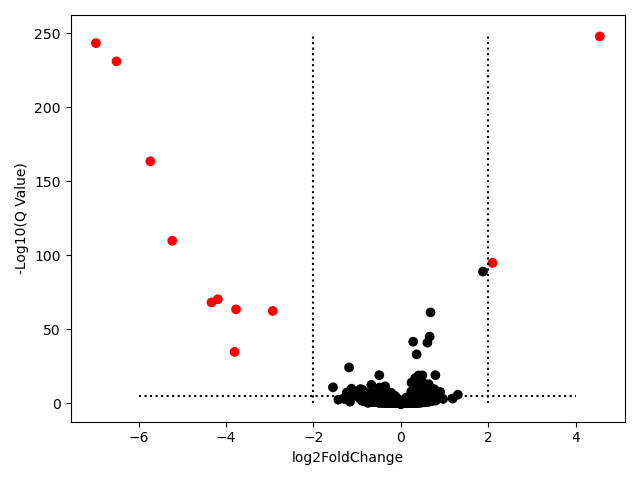
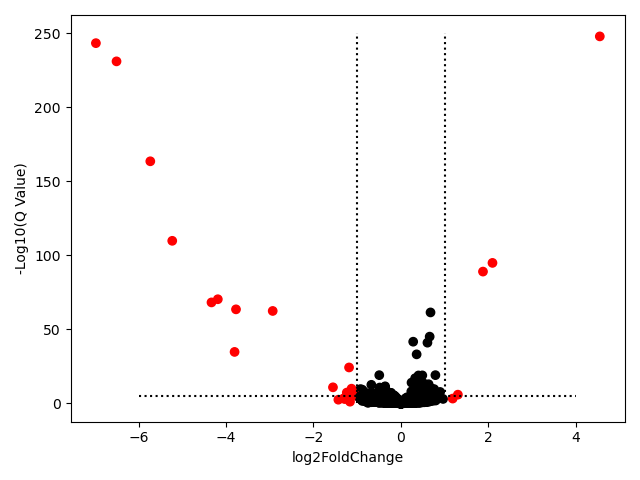
Edited Homework

Changed region(s): [[0.5, 0.75, 0.5625, 0.8438], [0.75, 0.5312, 0.7812, 0.5938], [0.6875, 0.8125, 0.7188, 0.8438]]

diff --git a/week9/hw.py b/week9/hw.py
@@ -13,15 +13,17 @@ from pydeseq2.ds import DeseqStats
 counts_df = pd.read_csv("gtex_whole_blood_counts_formatted.txt", index_col = 0)
 metadata = pd.read_csv("gtex_metadata.txt", index_col = 0)
 
-
+"""
 counts_df_normed = preprocessing.deseq2_norm(counts_df)[0]
 counts_df_normed = np.log2(counts_df_normed + 1)
 full_design_df = pd.concat([counts_df_normed, metadata], axis=1)
 
 model = smf.ols(formula = 'Q("DDX11L1") ~ SEX', data=full_design_df)
 results = model.fit()
+
 slope = results.params[1]
 pval = results.pvalues[1]
+
 
 full_design_dfT = full_design_df.transpose()
 n = 3
@@ -34,13 +36,24 @@ for line in range(len(full_design_dfT)):
     model = smf.ols(formula = f'Q("{gene}") ~ SEX', data=full_design_df) 
     results = model.fit()
     slope = results.params[1]
-    pval = results.params[1]
+    pval = results.pvalues[1]
     all_results.loc[line] = [gene, slope, pval]
 all_results.to_csv('output_results.csv', index=False)
 
+
 results = pd.read_csv("output_results.csv")
-pvals = results["Pval"]
-genes = results["Gene"]
+pvals_unclean = results["Pval"]
+genes_unclean = results["Gene"]
+
+pvals = []
+genes = []
+for line in range(len(pvals_unclean)):
+    pvalue = pvals_unclean.iloc[line]
+    gene = genes_unclean.iloc[line]
+    if pd.notna(pvalue):
+        pvals.append(pvalue)
+        genes.append(gene)
+
 fdr_pvals = multitest.fdrcorrection(pvals, alpha=0.10)
 fdr_pvals_actual = fdr_pvals[1]
 final_results = pd.DataFrame({'Gene': genes, "FDR_Pvals": fdr_pvals_actual})
@@ -48,7 +61,10 @@ final_results_sorted = final_results.sort_values(by='FDR_Pvals')
 significant_results = final_results_sorted[final_results_sorted['FDR_Pvals'] < 0.1]
 
 significant_results.to_csv('signifcant_results.txt', sep='\t', index=False)
+significant_results.to_csv('signifcant_results.csv', sep='\t', index=False)
 """
+
+
 dds = DeseqDataSet(
     counts=counts_df,
     metadata=metadata,
@@ -70,7 +86,7 @@ sig_results_mod = pd.DataFrame({"Gene": genes, "Pvals": sig_pvals})
 sig_results_mod.to_csv('deseq2_signifcant_results.txt', sep='\t', index=False)
 
 deseq2_sig_results = pd.read_csv("deseq2_signifcant_results.csv")
-manual_sig_results = pd.read_csv("signifcant_results.csv")
+manual_sig_results = pd.read_csv("signifcant_results.csv", delim_whitespace = True)
 
 man_gen = manual_sig_results["Gene"]
 deseq2_gen = deseq2_sig_results["Gene"]
@@ -82,34 +98,44 @@ shared_genes = len(manual_genes.intersection(deseq2_genes))
 manual_unique_genes = len(manual_genes.difference(deseq2_genes))
 deseq2_unique_genes = len(deseq2_genes.difference(manual_genes))
 jaccard_index = (shared_genes / (manual_unique_genes + deseq2_unique_genes + shared_genes)) * 100
-#print(jaccard_index)
+print(jaccard_index)
 
+
+results_reset = results.reset_index()
+clean_padj = []
+clean_log = []
+for line in range(len(results_reset)):
+    padj = results_reset.at[line, "padj"]
+    logadj = results_reset.at[line, "log2FoldChange"]
+    if pd.notna(padj):
+        clean_padj.append(padj)
+        clean_log.append(logadj)
 
 import matplotlib.pyplot as plt
 
-log2 = results["log2FoldChange"]
-graph_pvals = -(np.log10(results["padj"]))
+
+graph_pvals = -(np.log10(clean_padj))
 color = []
 for line in range(len(graph_pvals)):
     value = graph_pvals[line]
-    item = log2[line]
-    if value > 1 and (item < -2 or item > 2):
+    item = clean_log[line]
+    if value > 1 and (item < -1 or item > 1):
         color.append('r')
     else:
         color.append('k') 
 
 fig, (ax) = plt.subplots()
-ax.scatter(log2, graph_pvals, color = color)
+ax.scatter(clean_log, graph_pvals, color = color)
 ax.hlines(y = 5, xmin = -6, xmax = 4, color = 'k', linestyle = 'dotted')
-ax.vlines(x = 2, ymin = 0, ymax = 250, color = 'k', linestyle = 'dotted')
-ax.vlines(x = -2, ymin = 0, ymax = 250, color = 'k', linestyle = 'dotted')
+ax.vlines(x = 1, ymin = 0, ymax = 250, color = 'k', linestyle = 'dotted')
+ax.vlines(x = -1, ymin = 0, ymax = 250, color = 'k', linestyle = 'dotted')
 ax.set_xlabel("log2FoldChange")
 ax.set_ylabel("-Log10(Q Value)")
 plt.tight_layout()
 plt.show()
 fig.savefig( "volcano.png" )
 plt.close(fig)
-"""
+
 
 
 

diff --git a/week9/README.md b/week9/README.md
@@ -1,1 +1,1 @@
-Jaccard Index: 7.10 %
+Jaccard Index: 50.36 %
